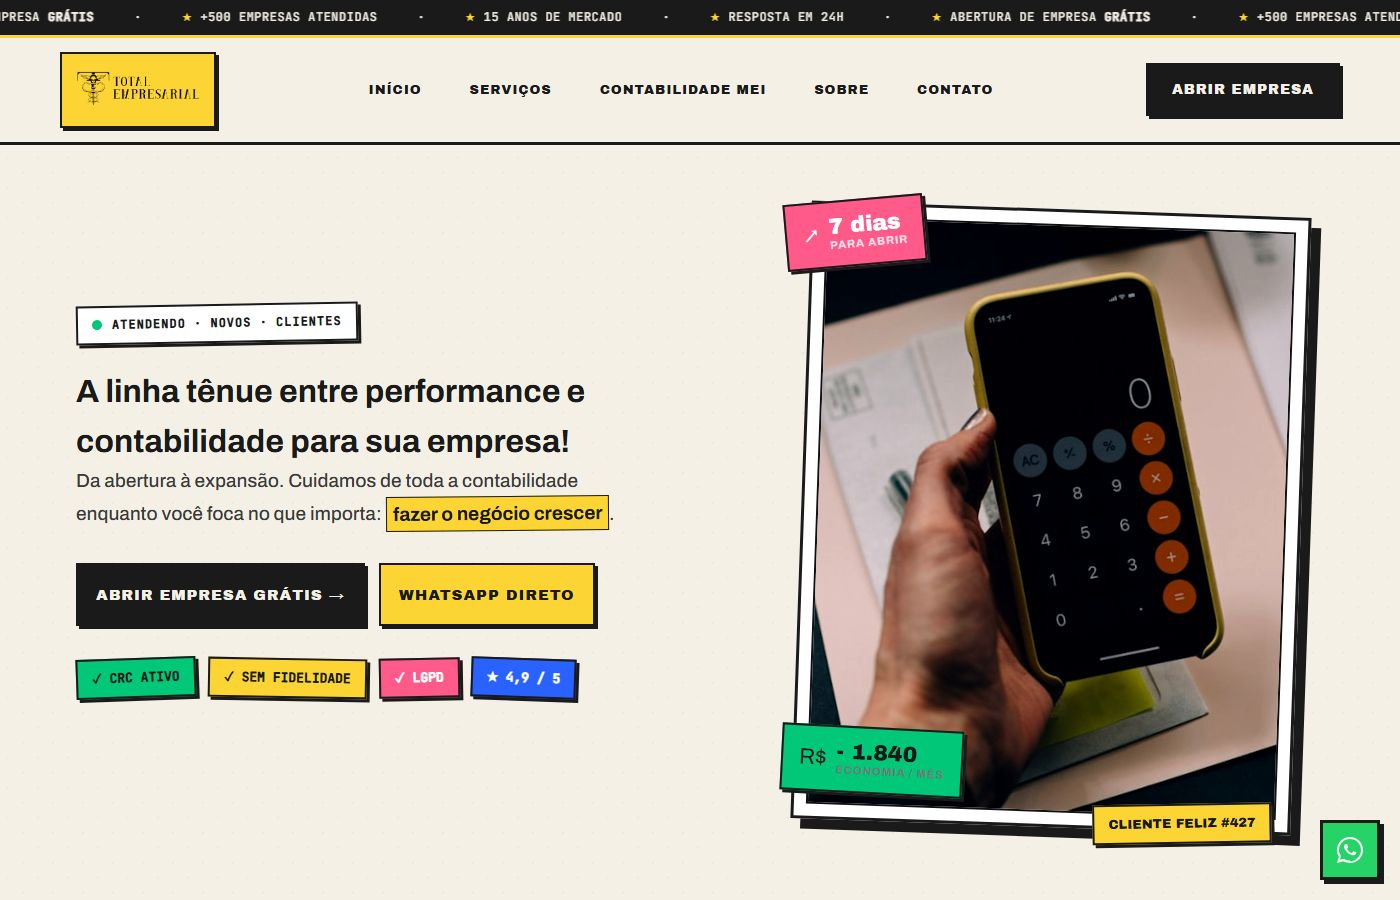
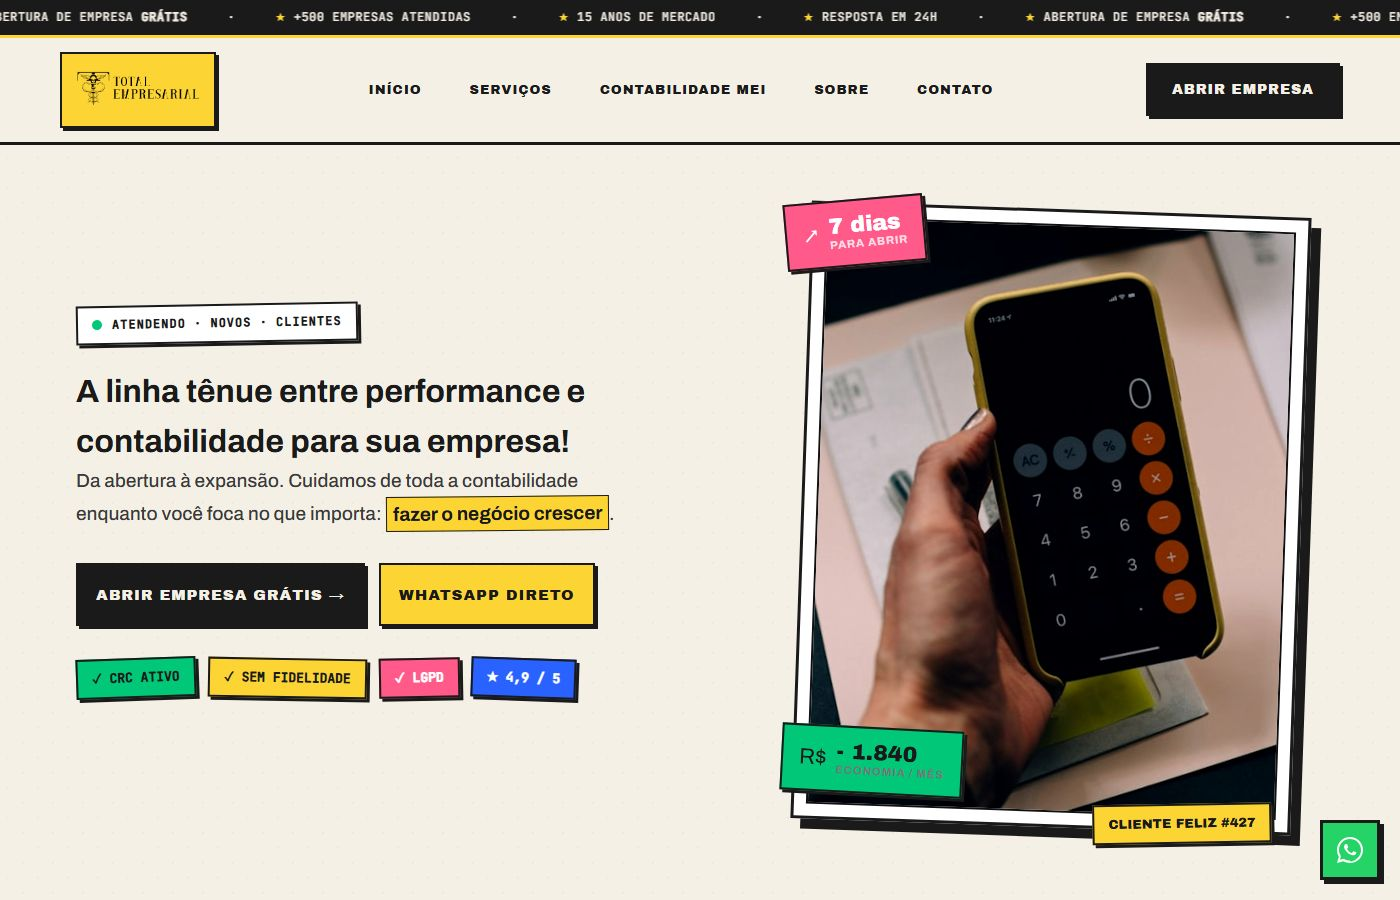
Substituir imagem de homem por graficos/analytics sem pessoas
Imagem do Unsplash photo-1556157382-97eda2d62296 (homem profissional)
aparecia em 7 modelos empresariais. Substituida por photo-1460925895917
que mostra graficos/analytics em tela de computador - sem pessoas.

Modelos atualizados: 3-brutalist, 4-swiss, 5-pastel, 6-glass, 7-retro,
11-neumorphism, 12-cyberpunk

Screenshots regenerados para refletir a mudanca.

Changed region(s): [[0.0, 0.0, 1.0, 0.0311]]

diff --git a/servicos/portal/modelos/empresarial/modelo-11-neumorphism.html b/servicos/portal/modelos/empresarial/modelo-11-neumorphism.html
@@ -498,7 +498,7 @@ footer {
   <div class="wrap about-grid">
     <div class="reveal">
       <div class="about-photo neu-flat">
-        <img src="https://images.unsplash.com/photo-1556157382-97eda2d62296?w=900&q=80" alt="">
+        <img src="https://images.unsplash.com/photo-1460925895917-afdab827c52f?w=900&q=80" alt="">
       </div>
     </div>
     <div class="reveal">

diff --git a/servicos/portal/modelos/empresarial/modelo-12-cyberpunk.html b/servicos/portal/modelos/empresarial/modelo-12-cyberpunk.html
@@ -539,7 +539,7 @@ footer {
   <div class="wrap about-grid">
     <div class="reveal">
       <div class="about-photo">
-        <img src="https://images.unsplash.com/photo-1556157382-97eda2d62296?w=900&q=80" alt="">
+        <img src="https://images.unsplash.com/photo-1460925895917-afdab827c52f?w=900&q=80" alt="">
       </div>
     </div>
     <div class="reveal">

diff --git a/servicos/portal/modelos/empresarial/modelo-3-brutalist.html b/servicos/portal/modelos/empresarial/modelo-3-brutalist.html
@@ -668,7 +668,7 @@ footer {
   <div class="wrap about-grid">
     <div class="reveal">
       <div class="about-photo">
-        <img src="https://images.unsplash.com/photo-1556157382-97eda2d62296?w=900&q=80" alt="">
+        <img src="https://images.unsplash.com/photo-1460925895917-afdab827c52f?w=900&q=80" alt="">
         <div class="stamp">+15<br>ANOS<br>★★★★★</div>
       </div>
     </div>

diff --git a/servicos/portal/modelos/empresarial/modelo-4-swiss.html b/servicos/portal/modelos/empresarial/modelo-4-swiss.html
@@ -451,7 +451,7 @@ footer {
   <div class="wrap about-grid">
     <div class="reveal">
       <div class="about-image">
-        <img src="https://images.unsplash.com/photo-1556157382-97eda2d62296?w=900&q=80" alt="">
+        <img src="https://images.unsplash.com/photo-1460925895917-afdab827c52f?w=900&q=80" alt="">
       </div>
     </div>
     <div class="reveal">

diff --git a/servicos/portal/modelos/empresarial/modelo-5-pastel.html b/servicos/portal/modelos/empresarial/modelo-5-pastel.html
@@ -524,7 +524,7 @@ footer {
   <div class="wrap about-grid">
     <div class="reveal">
       <div class="about-photo">
-        <img src="https://images.unsplash.com/photo-1556157382-97eda2d62296?w=900&q=80" alt="">
+        <img src="https://images.unsplash.com/photo-1460925895917-afdab827c52f?w=900&q=80" alt="">
       </div>
     </div>
     <div class="reveal">

diff --git a/servicos/portal/modelos/empresarial/modelo-6-glass.html b/servicos/portal/modelos/empresarial/modelo-6-glass.html
@@ -527,7 +527,7 @@ footer {
   <div class="wrap about-grid">
     <div class="reveal">
       <div class="about-photo">
-        <img src="https://images.unsplash.com/photo-1556157382-97eda2d62296?w=900&q=80" alt="">
+        <img src="https://images.unsplash.com/photo-1460925895917-afdab827c52f?w=900&q=80" alt="">
       </div>
     </div>
     <div class="reveal">

diff --git a/servicos/portal/modelos/empresarial/modelo-7-retro.html b/servicos/portal/modelos/empresarial/modelo-7-retro.html
@@ -489,7 +489,7 @@ footer {
   <div class="wrap about-grid">
     <div class="reveal">
       <div class="about-photo">
-        <img src="https://images.unsplash.com/photo-1556157382-97eda2d62296?w=900&q=80" alt="">
+        <img src="https://images.unsplash.com/photo-1460925895917-afdab827c52f?w=900&q=80" alt="">
       </div>
     </div>
     <div class="reveal">